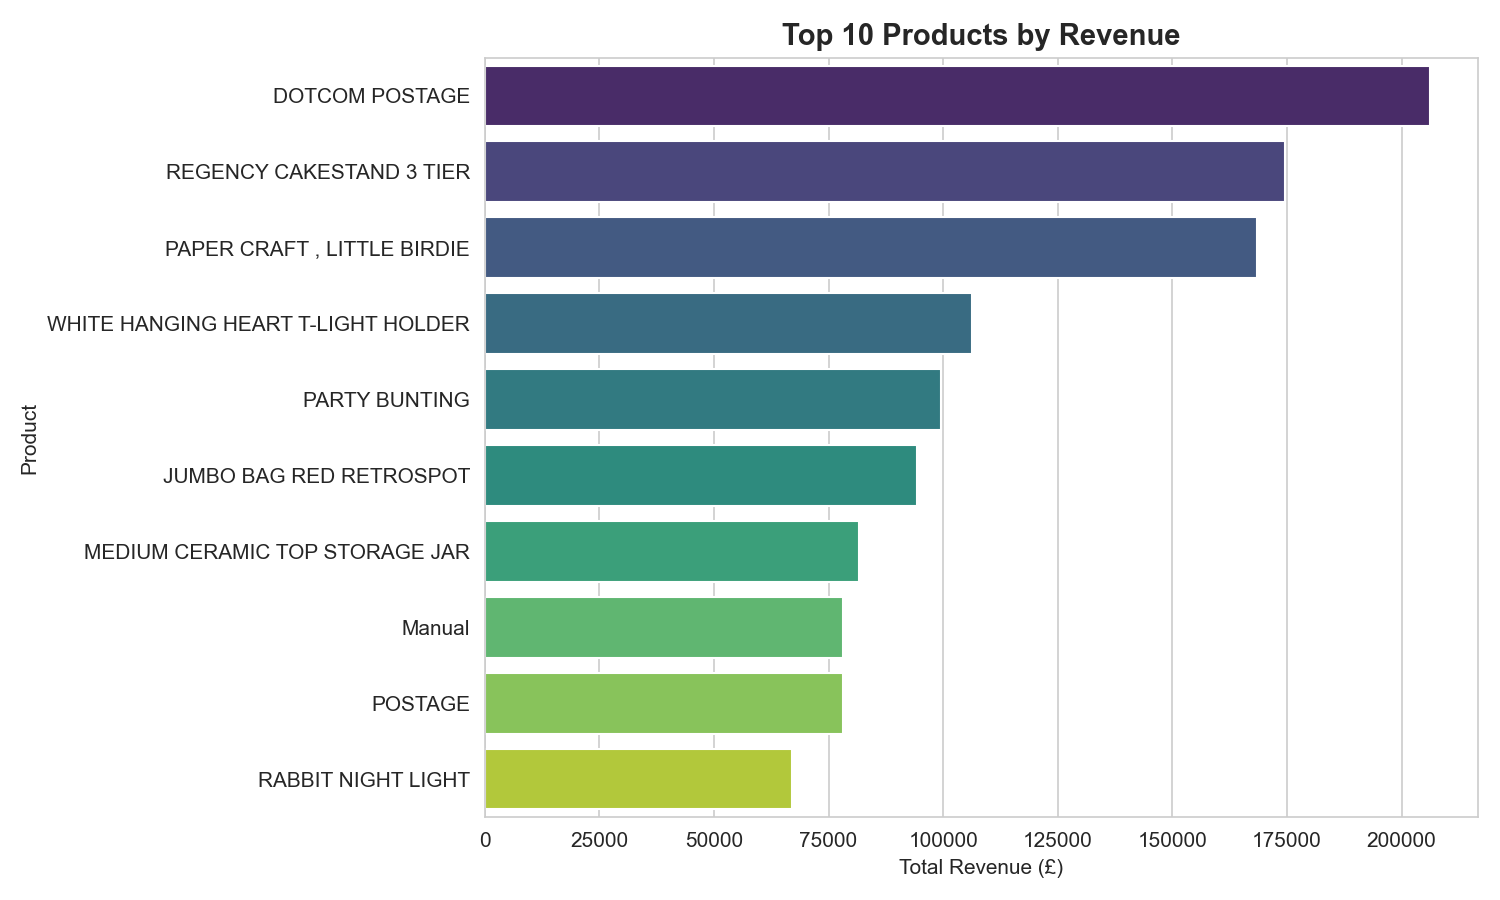
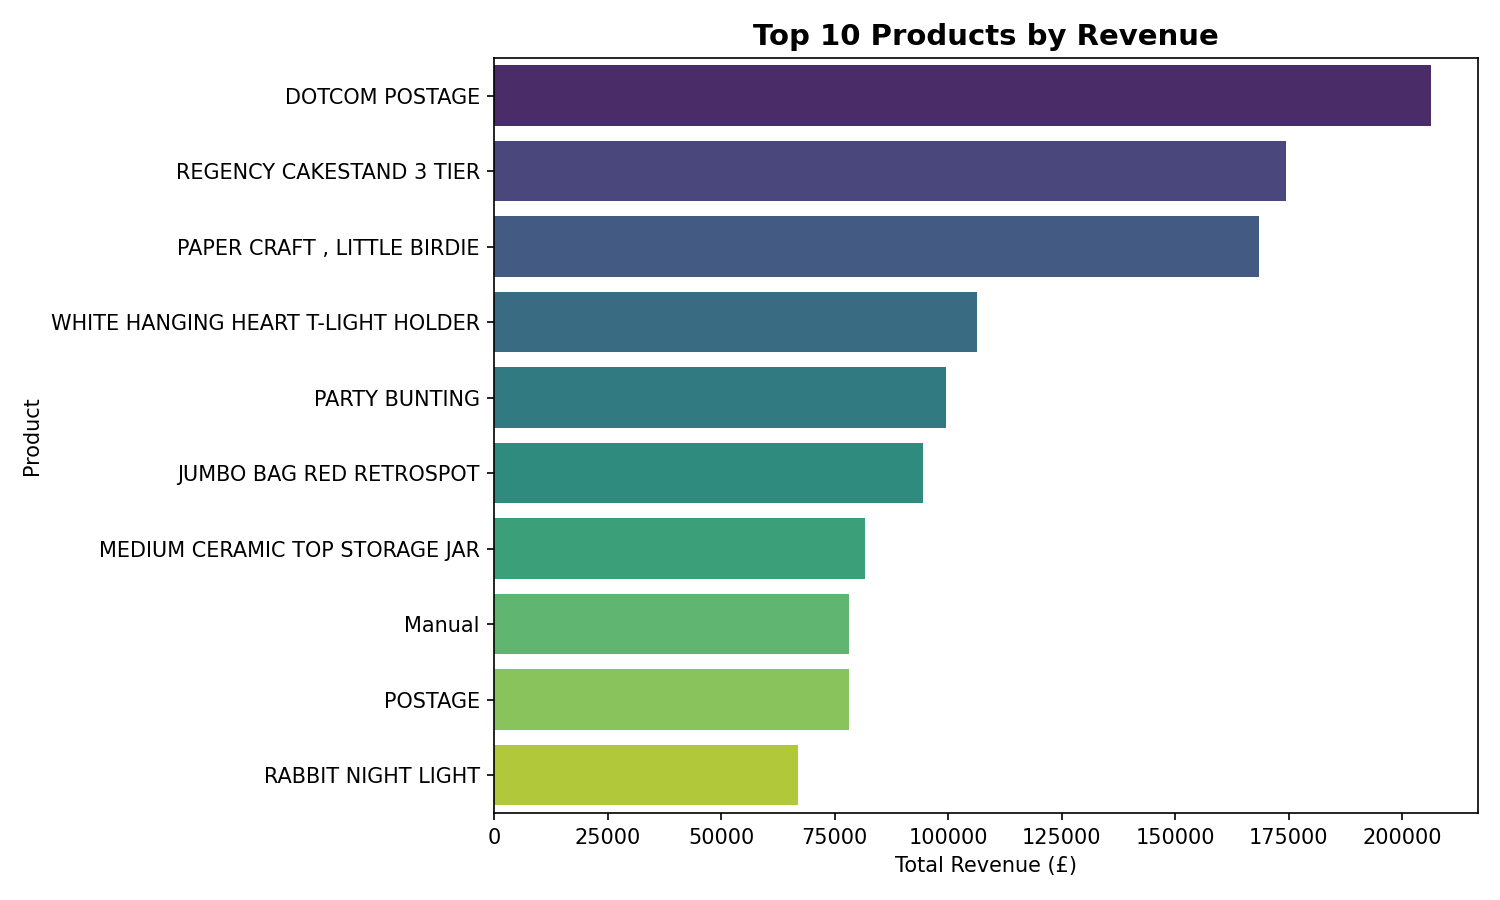
update

diff --git a/Ecommerce_dashboard.py b/Ecommerce_dashboard.py
@@ -1,16 +1,3 @@
-"""
-STEP 13: Interactive Dashboard (Streamlit)
-
-RUN KARNE KA TARIKA:
-    1. Is file ko save karo -> ecommerce_dashboard.py
-    2. Terminal mein jaake iski location par jao (cd command se)
-    3. Command chalao:
-         streamlit run ecommerce_dashboard.py
-    4. Browser automatically khul jayega -> http://localhost:8501
-
-NOTE: Apne data.csv ka sahi path niche DATA_PATH variable mein daalna.
-"""
-
 import numpy as np
 import pandas as pd
 import matplotlib.pyplot as plt
@@ -65,11 +52,11 @@ df_clean = load_data(DATA_PATH)
 # ---------------------------------------------------------
 # Sidebar Filters 
 # ---------------------------------------------------------
-st.sidebar.header("🔍 Filters")
+st.sidebar.header("Filters")
 
 countries = sorted(df_clean["Country"].unique().tolist())
 selected_countries = st.sidebar.multiselect(
-    "Country chuno", options=countries, default=countries
+    "Country Option", options=countries, default=countries
 )
 
 min_date = df_clean["InvoiceDate"].min().date()
@@ -91,7 +78,7 @@ filtered = df_clean[mask]
 # ---------------------------------------------------------
 # Title
 # ---------------------------------------------------------
-st.title("🛒 Ecommerce Sales Dashboard")
+st.title("Ecommerce Sales Dashboard")
 st.markdown("Interactive view of revenue, products, customers aur trends.")
 
 # ---------------------------------------------------------
@@ -116,7 +103,7 @@ st.markdown("---")
 row1_col1, row1_col2 = st.columns(2)
 
 with row1_col1:
-    st.subheader("📈 Monthly Revenue Trend")
+    st.subheader("Monthly Revenue Trend")
     monthly_sales = filtered.groupby("YearMonth")["TotalPrice"].sum()
     fig, ax = plt.subplots(figsize=(6, 4))
     monthly_sales.plot(kind="line", marker="o", color="royalblue", ax=ax)
@@ -126,7 +113,7 @@ with row1_col1:
     st.pyplot(fig)
 
 with row1_col2:
-    st.subheader("🌍 Top 10 Countries by Revenue")
+    st.subheader("Top 10 Countries by Revenue")
     country_revenue = (
         filtered.groupby("Country")["TotalPrice"].sum()
         .sort_values(ascending=False).head(10)
@@ -143,7 +130,7 @@ with row1_col2:
 row2_col1, row2_col2 = st.columns(2)
 
 with row2_col1:
-    st.subheader("📦 Top 10 Products by Revenue")
+    st.subheader("Top 10 Products by Revenue")
     top_products = (
         filtered.groupby("Description")["TotalPrice"].sum()
         .sort_values(ascending=False).head(10)
@@ -207,6 +194,6 @@ st.dataframe(customer_summary, use_container_width=True)
 # ---------------------------------------------------------
 # Raw Data (optional expandable section)
 # ---------------------------------------------------------
-with st.expander("🔎 Raw Filtered Data Dekho"):
+with st.expander("Raw Filtered Data Insight"):
     st.dataframe(filtered.head(500), use_container_width=True)
 